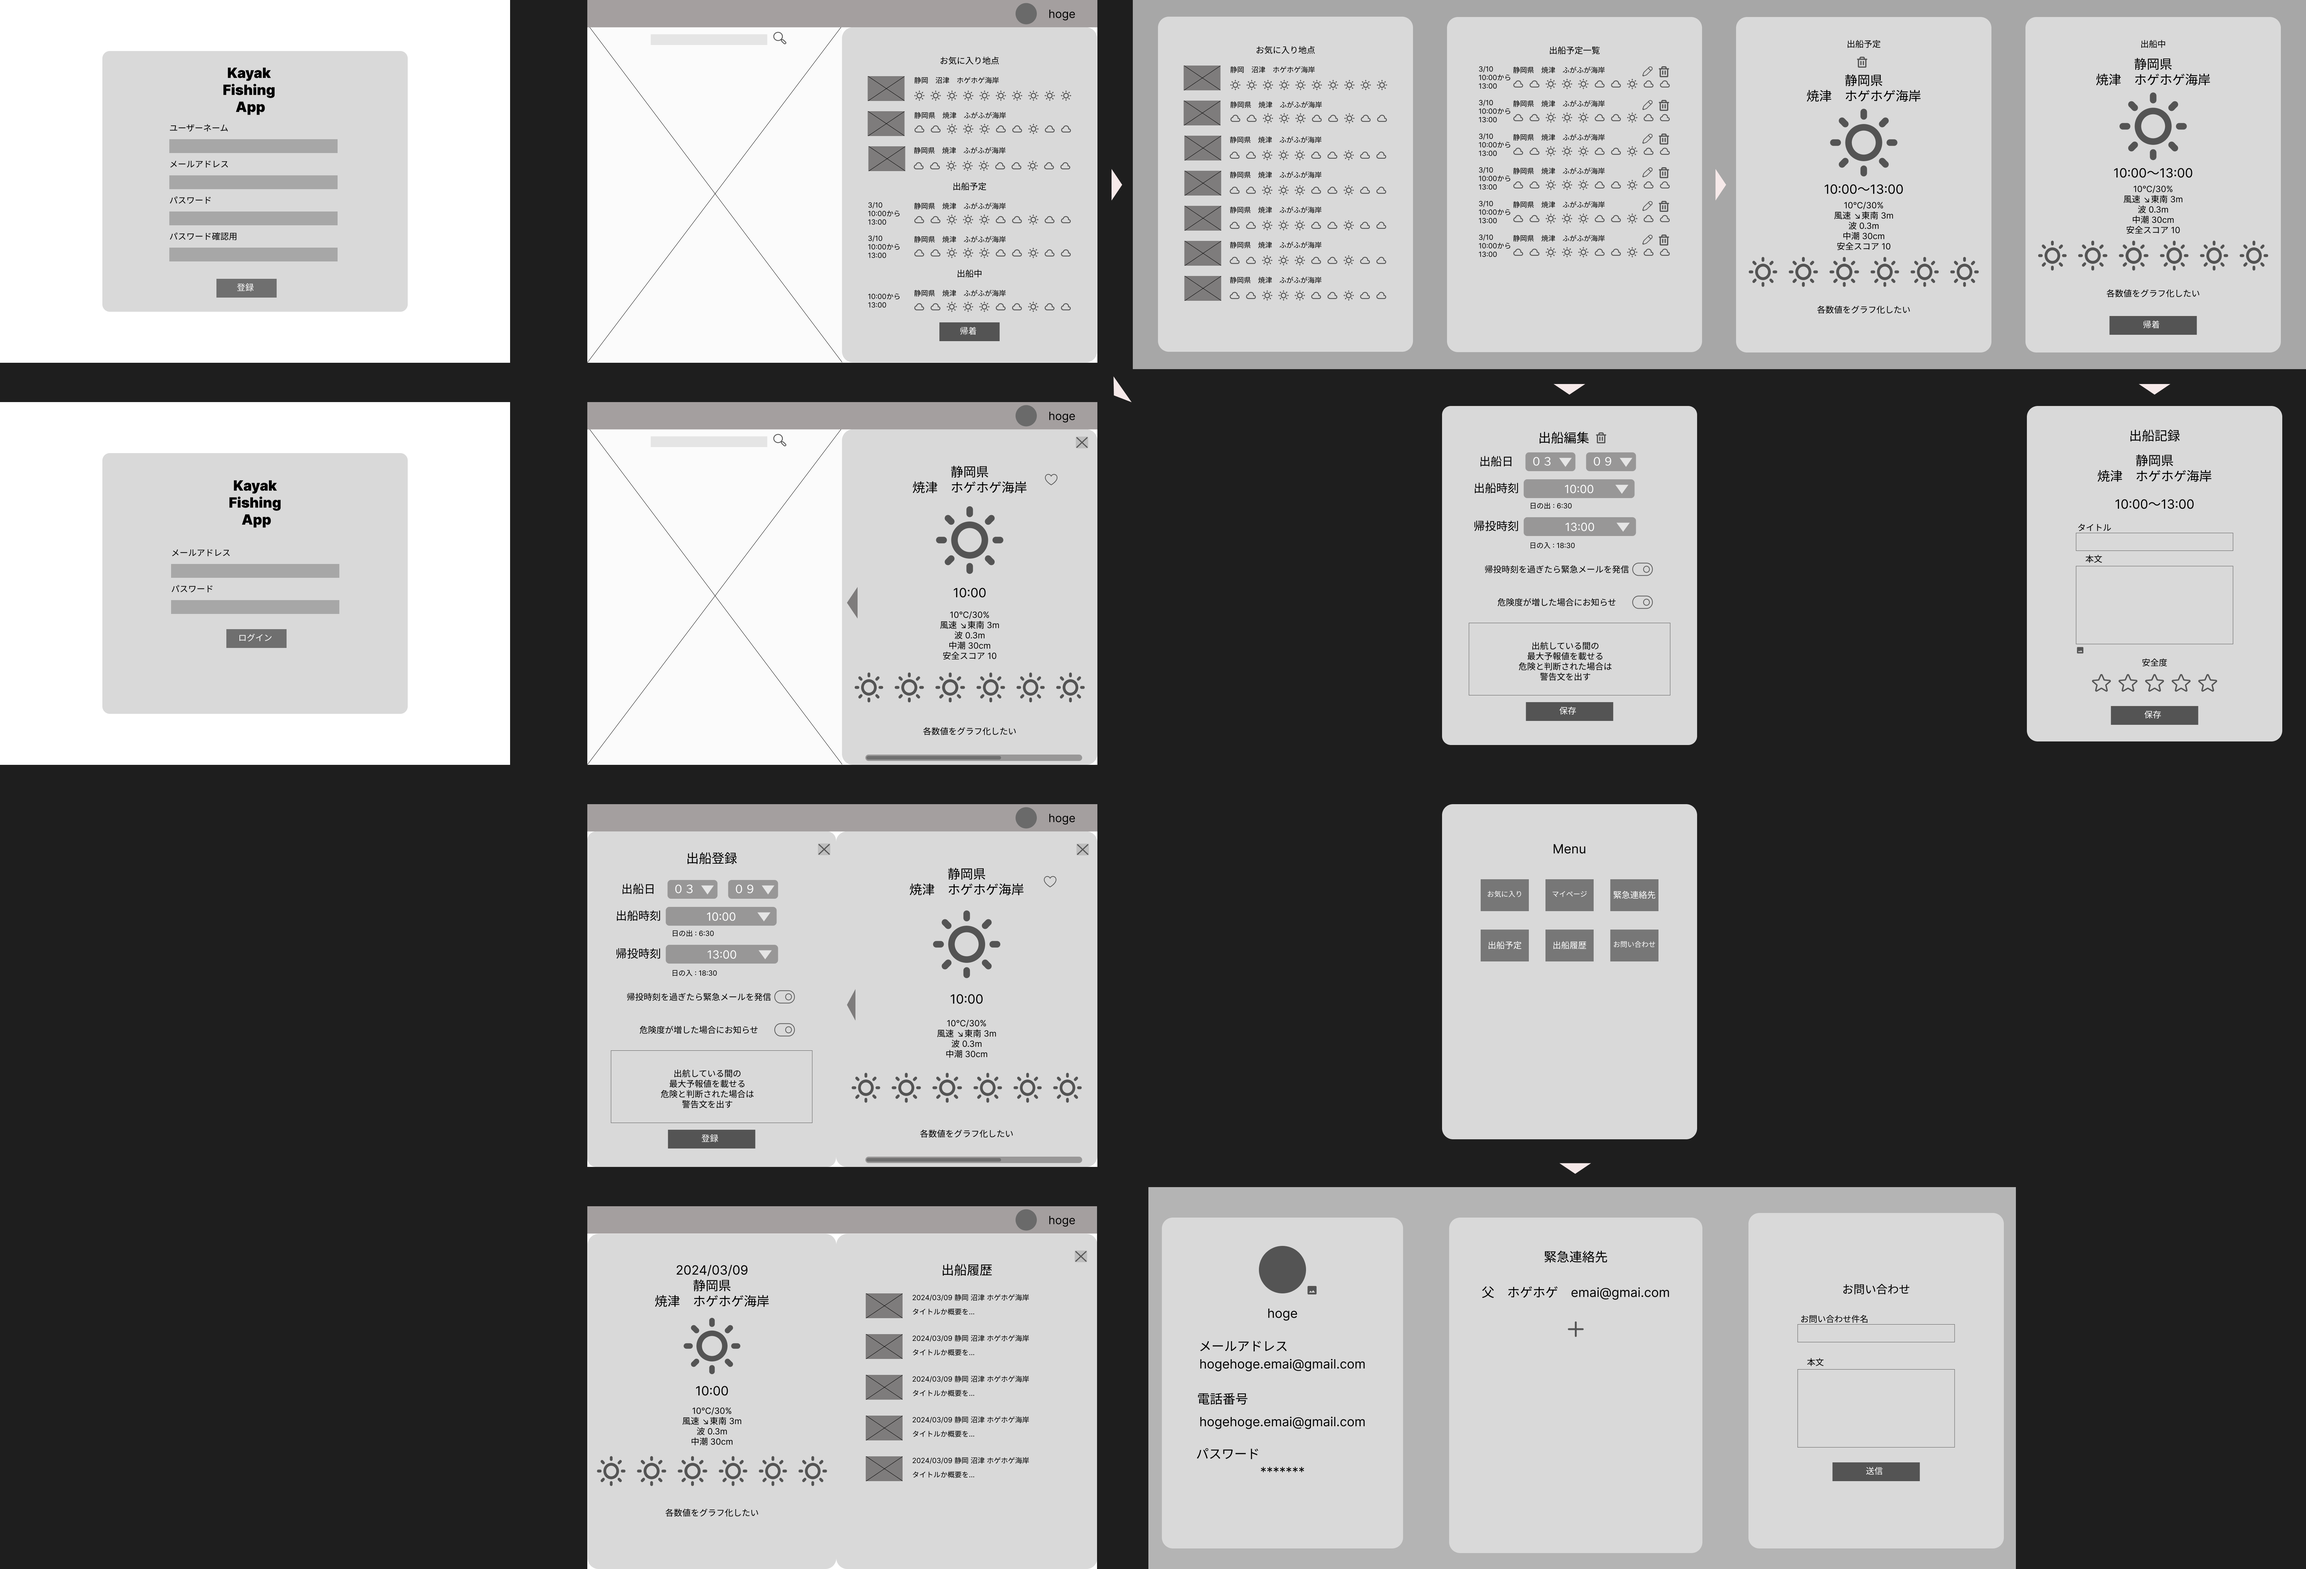
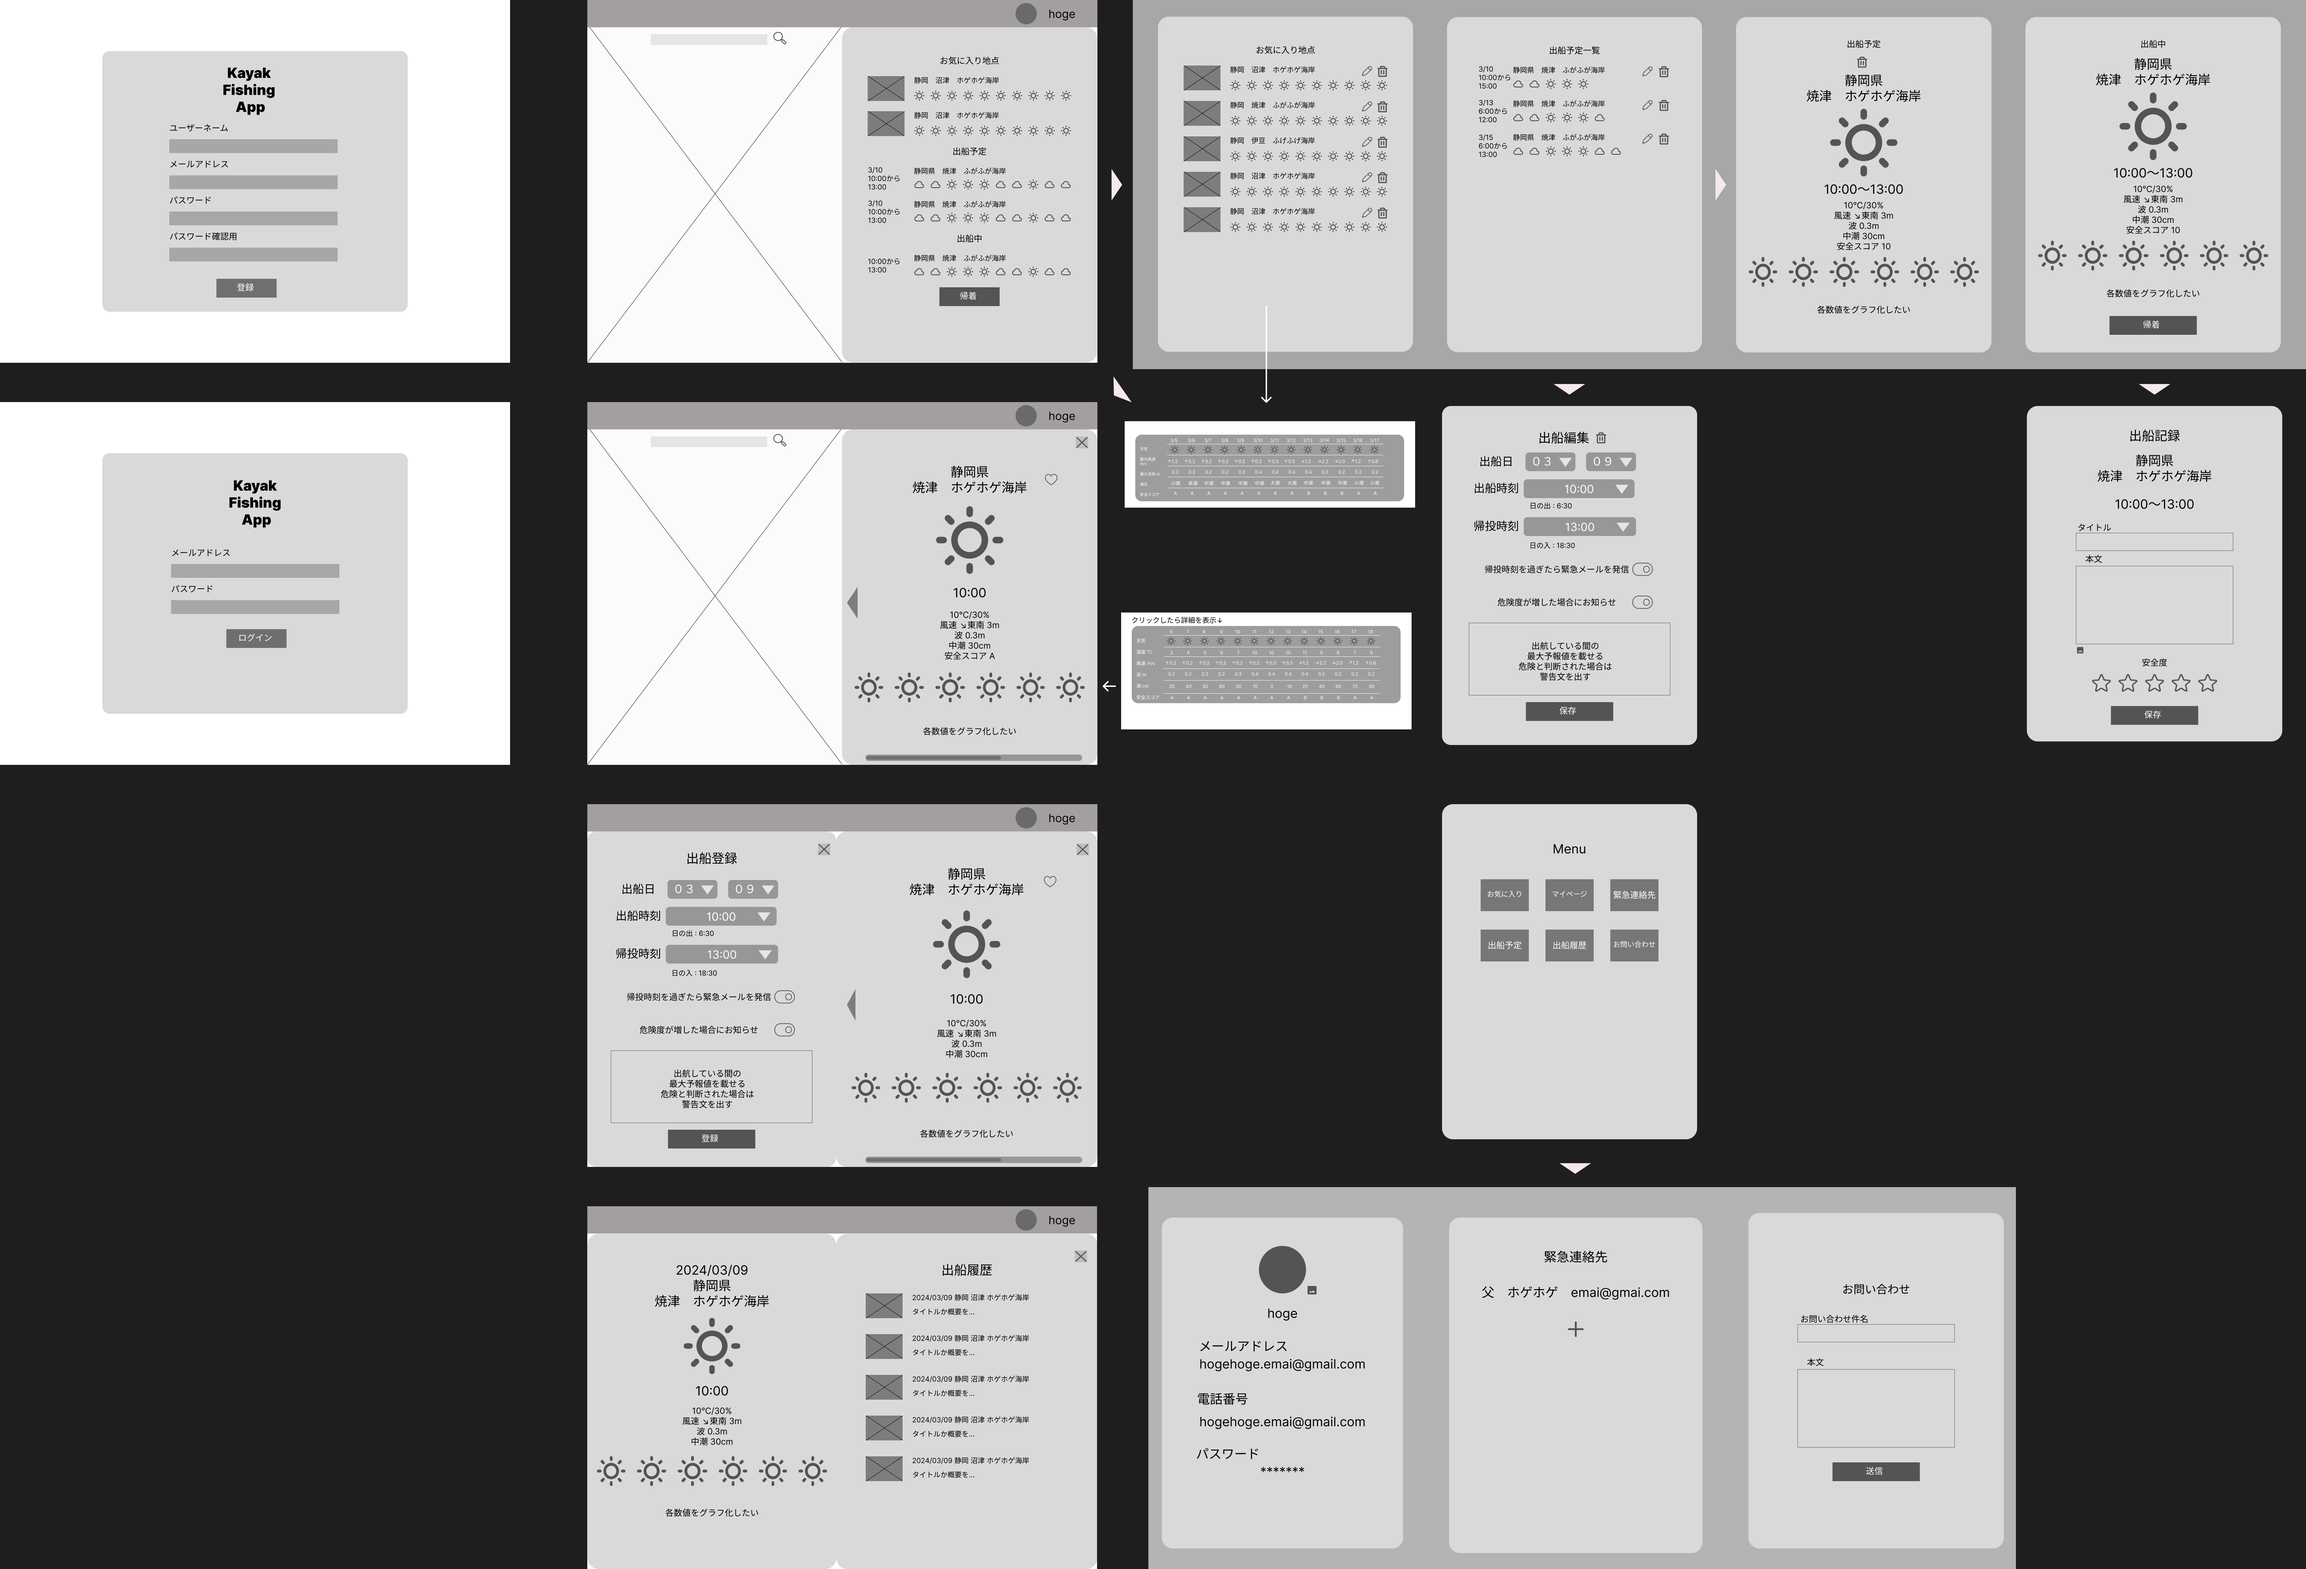
UI更新

diff --git a/開発設計書/DB/table.md b/開発設計書/DB/table.md
@@ -17,8 +17,6 @@
 | Field            | Type          | Description       | Constraints          |
 |------------------|---------------|-------------------|----------------------|
 | `location_id`    | INT           | 地点の一意識別子   | PK, AI, UQ           |
-| `name`           | VARCHAR(255)  | 地点の名称         | NN                   |
-| `description`    | TEXT          | 地点の説明         | NULL許容            |
 | `latitude`       | DECIMAL(10, 8)| 緯度               | NN                   |
 | `longitude`      | DECIMAL(11, 8)| 経度               | NN                   |
 
@@ -29,6 +27,8 @@
 | `favorite_id`  | INT         | お気に入りの一意識別子  | PK, AI, UQ             |
 | `user_id`      | INT         | ユーザーの一意識別子    | FK                     |
 | `location_id`  | INT         | 地点の一意識別子        | FK                     |
+| `name`           | VARCHAR(255)  | 地点の名称         | NN                   |
+| `description`    | TEXT          | 地点の説明         | NULL許容            |
 
 ## Trips (出船スケジュール)
 
@@ -67,7 +67,7 @@
 
 ---
 
-## ForecastData (気象予報データ)
+<!-- ## ForecastData (気象予報データ)
 
 | Field                | Type          | Description                     | Constraints            |
 |----------------------|---------------|---------------------------------|------------------------|
@@ -87,7 +87,7 @@
 |----------------------|---------------|---------------------------------|------------------------|
 | `trip_forecast_id`   | INT           | トリップと気象予報の関連ID      | PK, AI, UQ             |
 | `trip_id`            | INT           | トリップの一意識別子            | FK                     |
-| `forecast_data_id`   | INT           | 気象予報データの一意識別子      | FK                     |
+| `forecast_data_id`   | INT           | 気象予報データの一意識別子      | FK                     | -->
 
 
 ## WeatherData (気象データ)

diff --git a/開発設計書/API/favorite.md b/開発設計書/API/favorite.md
@@ -6,9 +6,12 @@
 - リクエストボディ:
 ```json
 {
-  "user_id": "ユーザーの一意識別子",
-  "location_id": "地点の一意識別子"
+  "name":"地点の名称",
+  "description":"地点の説明",
+  "latitude":"緯度",
+  "longitude":"経度"
 }
+
 ```
 - ステータスコード `201 Created`
 - レスポンスボディ:
@@ -16,14 +19,20 @@
 {
   "favorite_id": "お気に入りの一意識別子",
   "user_id": "ユーザーの一意識別子",
-  "location_id": "地点の一意識別子"
+  "location_data": {
+    "location_id":"地点の一意識別子",
+    "name":"地点の名称",
+    "description":"地点の説明",
+    "latitude":"緯度",
+    "longitude":"経度"
+  }
 }
 ```
 
 
 
 ### お気に入り地点の一覧取得
-- GET `/api/favorites/{user_id}`
+- GET `/api/favorites`
 - 特定のユーザーのお気に入り地点の一覧を取得します。
 - ステータスコード `200 OK`
 - レスポンスボディ:
@@ -32,7 +41,12 @@
   {
     "favorite_id": "お気に入りの一意識別子",
     "user_id": "ユーザーの一意識別子",
-    "location_id": "地点の一意識別子"
+    "location_data": {
+      "name":"地点の名称",
+      "description":"地点の説明",
+      "latitude":"緯度",
+      "longitude":"経度"
+    }
   },
   {...}
 ]

diff --git a/開発設計書/API/trip.md b/開発設計書/API/trip.md
@@ -28,13 +28,18 @@
 ```json
 "data":[
   {
-    "trip_id": "出船予定ID",
+    "trip_id":"出船予定の一意識別子",
     "user_id": "ユーザーID",
-    "location_id": "地点ID",
     "departure_time": "出発時刻",
     "estimated_return_time": "予定帰投時刻",
     "details": "詳細情報",
-    "safety_score": "安全スコア"
+    "safety_score": "安全スコア",
+    "location_data": {
+      "name":"地点の名称",
+      "description":"地点の説明",
+      "latitude":"緯度",
+      "longitude":"経度"
+    }
   },
   {...}
 ]

diff --git a/開発設計書/API/weather.md b/開発設計書/API/weather.md
@@ -1,0 +1,19 @@
+# Weather
+### ロケーションベースの気象予報取得
+- GET `/api/weather/forecast/{location_id}`
+- 機能: 指定された地点の現在および将来の気象予報データを提供します。
+- レスポンス (成功時):
+- ステータスコード 200 OK
+- レスポンスボディ:
+```json
+{
+  "forecast_time": "2023-01-01T10:00:00Z",
+  "temperature": 20,
+  "wind_speed": 5,
+  "wind_direction": "北東",
+  "wave_height": 2,
+  "weather_condition": "晴れ",
+  "tide": "中潮",
+  "tide_level": 1.5
+}
+```

diff --git a/開発設計書/UI/画面設計.md b/開発設計書/UI/画面設計.md
@@ -13,7 +13,7 @@
 
 #### 3. メイン/マップ画面
 - アプリのメインとなる画面。
-- 必要な要素: 出船予定の一覧、天気予報へのリンク、履歴確認へのリンク。
+- 必要な要素: 出船予定の一覧、天気予報へのリンク。
 
 #### 4. コンソール/お気に入り一覧
 - お気に入り一覧画面。
